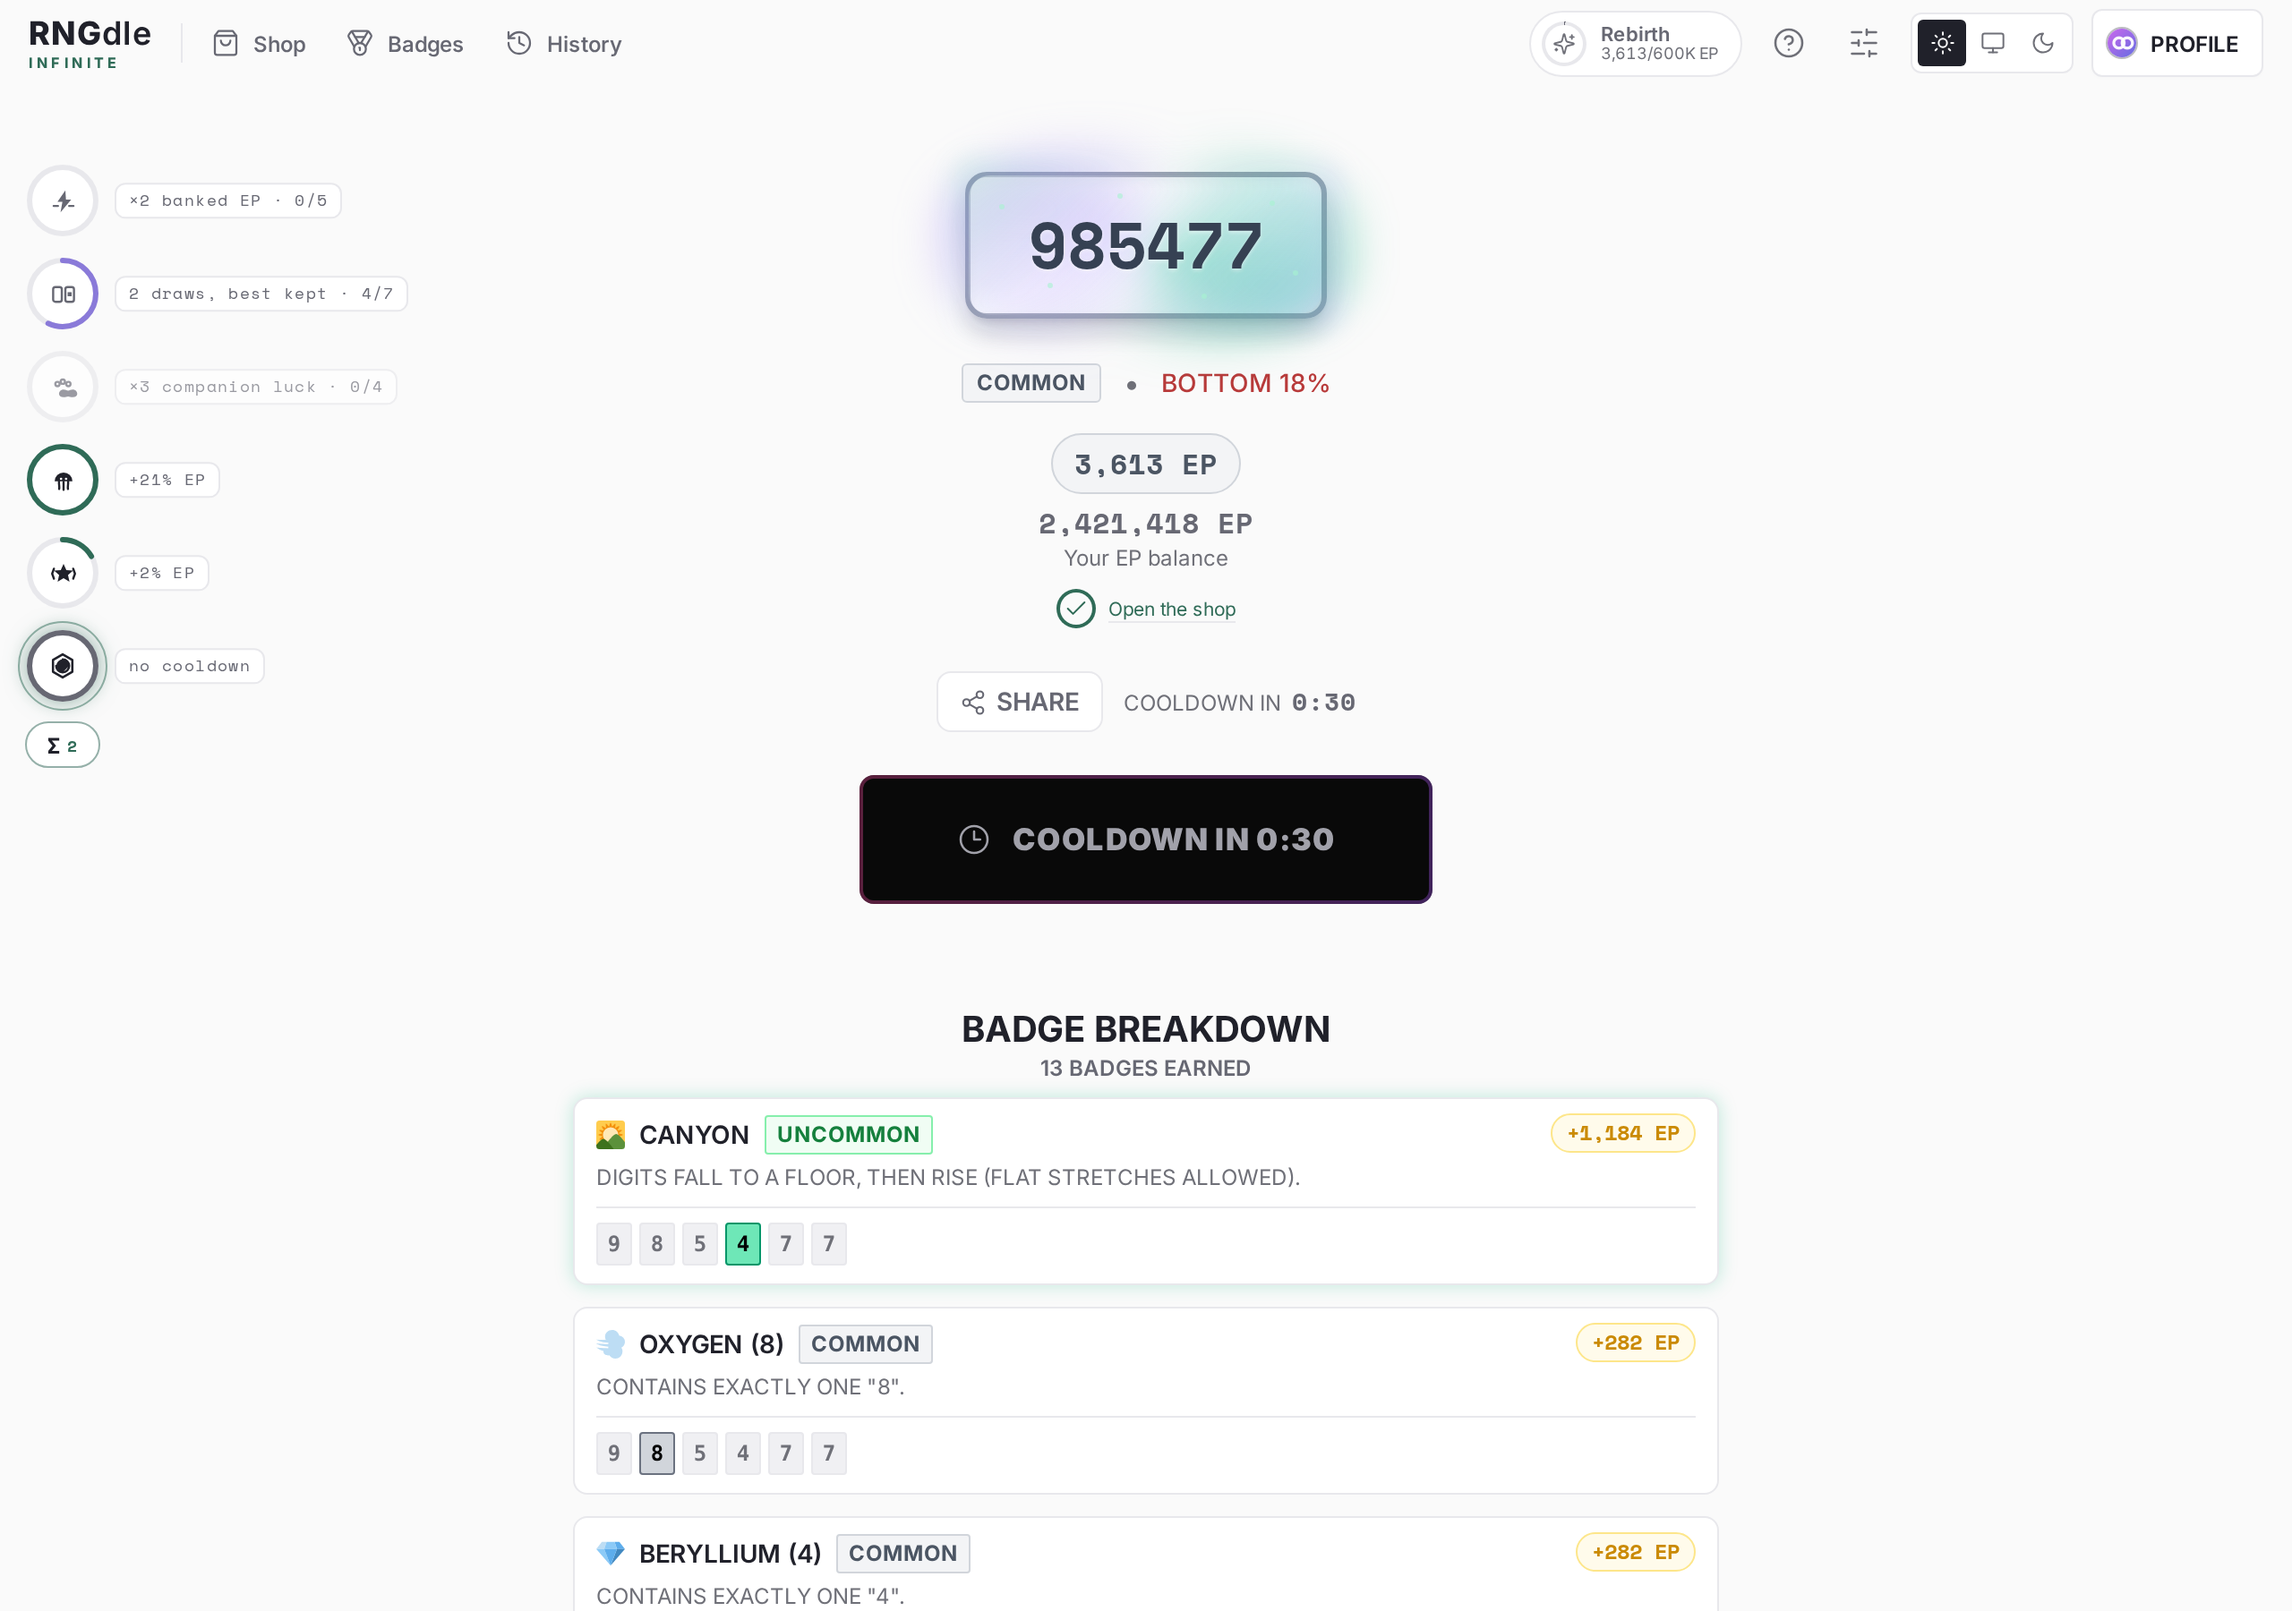
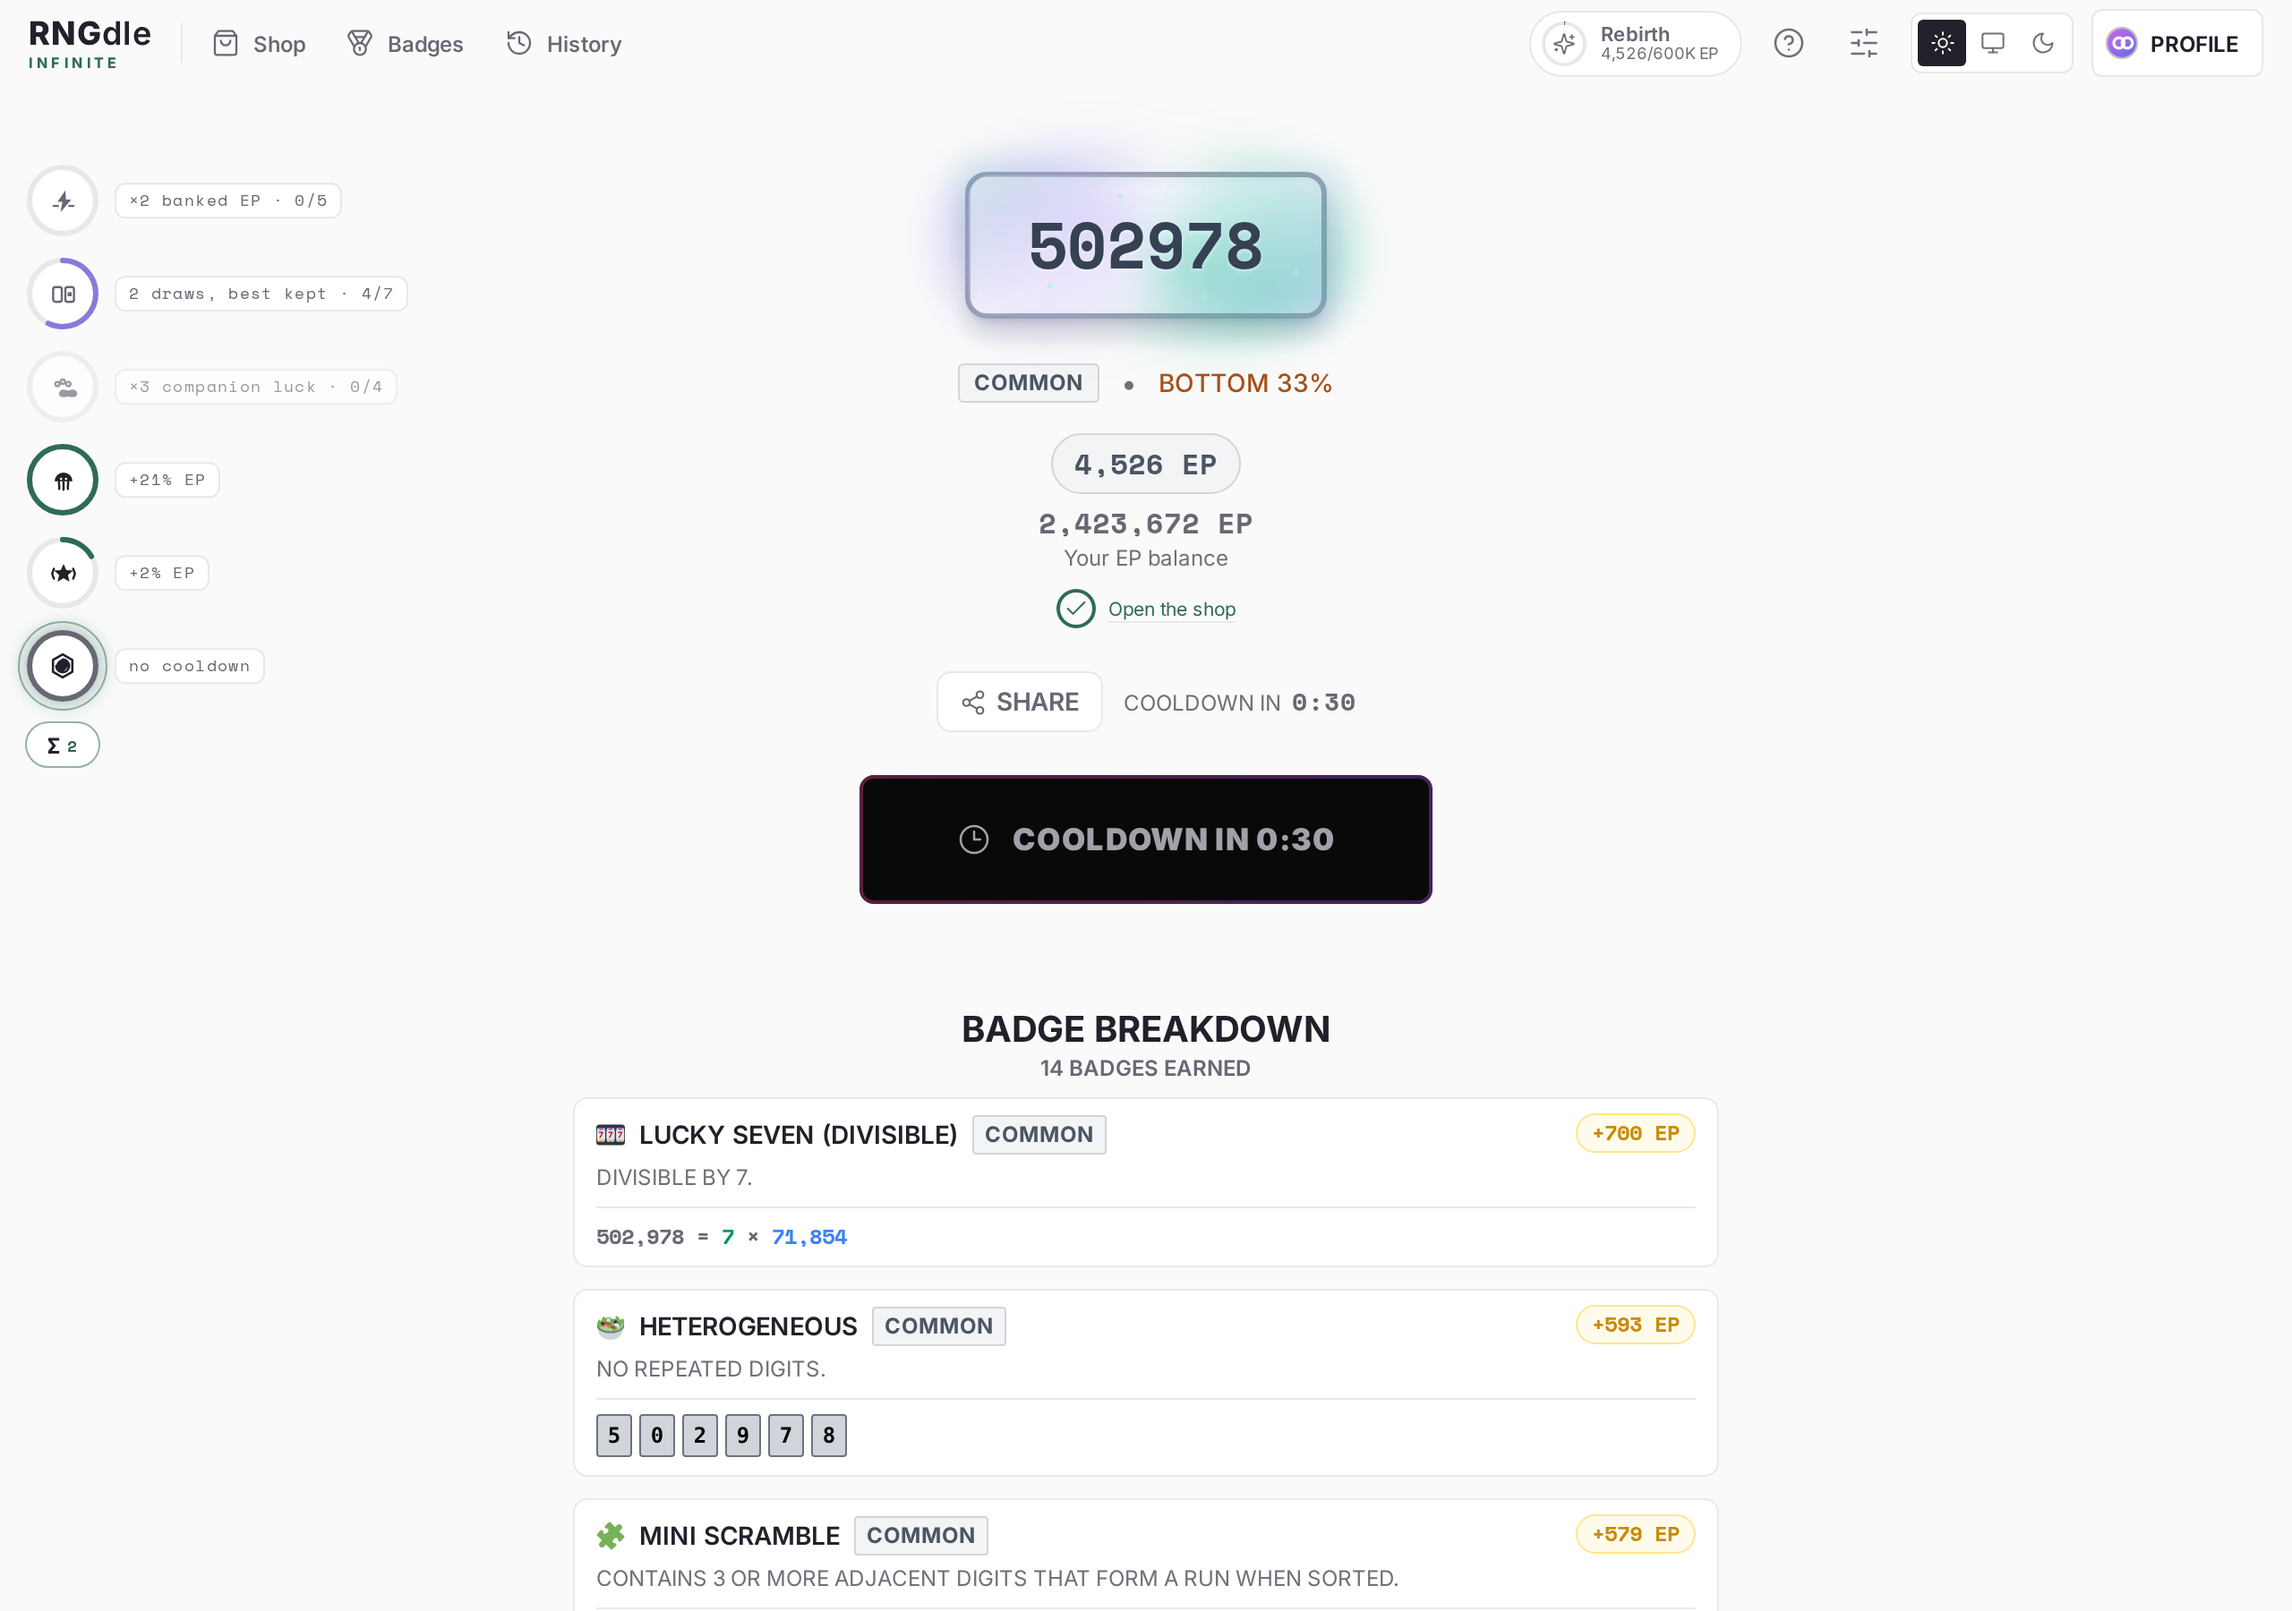
test: wait for async commits before advancing virtual clocks; refresh screenshots
Three tests flaked on a fully-loaded CI box because they fast-forwarded a
virtual clock or clicked ROLL AGAIN before the asynchronous draw/commit
worker and Web Lock had actually landed the pending roll:

- design-system.spec: poll the running reveal instead of the storage id,
  and assert both COOLDOWN IN (during reveal) and NEXT ROLL IN (once the
  cooldown is running).
- device-link.spec: wait for the archive-lens purchase to be stored before
  navigating away, so the queue test measures the queue, not navigation
  racing a commit.
- probability.spec: wait for the COOLDOWN IN label before advancing time
  and for the ROLL AGAIN label before clicking, so the duplicate 1337 is
  really the duplicate drawn and scored.

Suite is 330/330 on three back-to-back runs. Regenerated the README
screenshots from the final build.

diff --git a/tests/probability.spec.js b/tests/probability.spec.js
@@ -198,7 +198,14 @@ test("repeated random results each earn EP once and double-clicking cannot bypas
     "data-settled",
     "true",
   );
+  // The reveal runs on a virtual clock, so the button changes to ROLL AGAIN
+  // only once the cooldown is actually running. Wait for the label to land
+  // before advancing time, otherwise the next click races the state update.
+  await expect(page.locator(".generate")).toContainText("COOLDOWN IN");
   await page.clock.fastForward(105100);
+  await expect(page.locator(".generate")).toContainText("ROLL AGAIN", {
+    timeout: 10000,
+  });
   await page.getByRole("button", { name: "ROLL AGAIN", exact: true }).click();
   await expect(page.locator(".number-artifact")).toHaveAttribute(
     "aria-label",
@@ -211,7 +218,11 @@ test("repeated random results each earn EP once and double-clicking cannot bypas
     "data-settled",
     "true",
   );
+  await expect(page.locator(".generate")).toContainText("COOLDOWN IN");
   await page.clock.fastForward(105100);
+  await expect(page.locator(".generate")).toContainText("ROLL AGAIN", {
+    timeout: 10000,
+  });
   await page.getByRole("button", { name: "ROLL AGAIN", exact: true }).click();
   await expect(page.locator(".number-artifact")).toHaveAttribute(
     "aria-label",

diff --git a/tests/design-system.spec.js b/tests/design-system.spec.js
@@ -124,8 +124,20 @@ test("the main action wears the signature ring, and its cooldown bar stays insid
   // ring rests while the timer is the content.
   await page.clock.pauseAt(new Date(Date.now() + 1000));
   await start.click();
+  // The draw is committed asynchronously (worker plus Web Lock), so the reveal
+  // clock only means anything from the tick the roll is actually committed:
+  // wait for the running reveal instead of assuming the click finished in the
+  // same turn. During the reveal the only wait left after the number is the
+  // cooldown, so the label names the cooldown, and the number beside it is the
+  // cooldown alone rather than reveal plus cooldown.
+  const cta = page.locator(".generate");
+  await expect(cta).toContainText("COOLDOWN IN");
+  await expect(cta).toContainText("1:00");
   await page.clock.fastForward(44000);
   await page.clock.runFor(1200);
+  // Past the reveal the cooldown itself is ticking, so the same countdown is
+  // now honestly the next roll.
+  await expect(cta).toContainText("NEXT ROLL IN");
   const rail = await page.evaluate(() => {
     const button = document.querySelector(".generate").getBoundingClientRect();
     const fill = document

diff --git a/tests/device-link.spec.js b/tests/device-link.spec.js
@@ -390,6 +390,13 @@ test("a change made while the relay is unreachable is queued and sent later", as
   await page
     .getByRole("button", { name: "Confirm purchase", exact: true })
     .click();
+  // Waiting for the purchase to land in this browser's own storage keeps the
+  // test about the queue, not about navigating away mid-commit. The commit is
+  // asynchronous (Web Lock + write), so leaving the page in the same tick can
+  // race it on a loaded machine.
+  await expect
+    .poll(async () => (await saved(page))?.owned ?? [], { timeout: 10000 })
+    .toContain("archive-lens");
   await page.goto("/settings/link");
   await expect(page.getByTestId("sync-pending")).toBeVisible({
     timeout: 10000,
